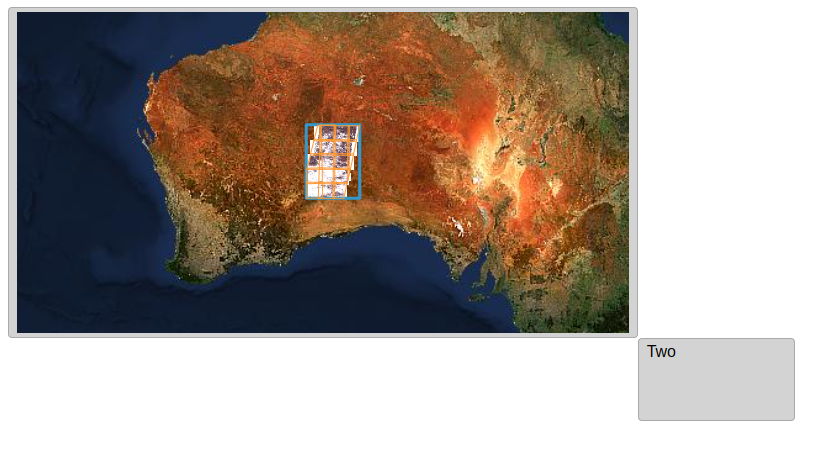
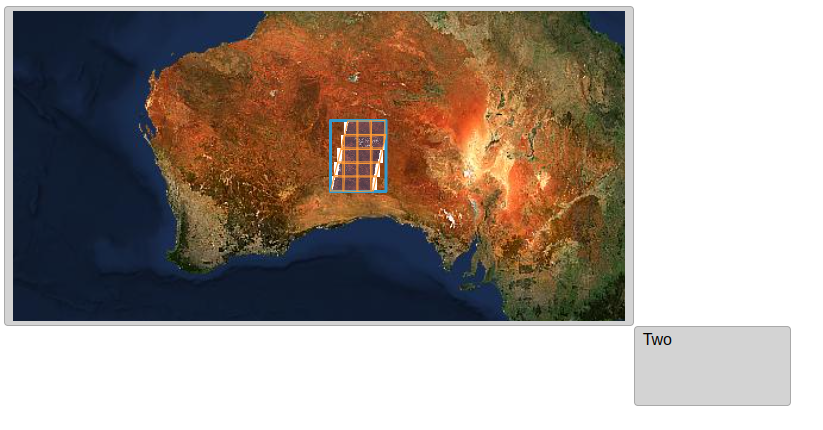
fix: STAC collection screenshot, added date, closes #6

diff --git a/03 eox-map advanced/solution/main.js b/03 eox-map advanced/solution/main.js
@@ -10,7 +10,7 @@ document.querySelector("eox-map").config = {
       properties: {
         id: "stacLayer",
       },
-      url: "https://tamn.snapplanet.io/search?bbox=125.727770,-29.514858,133.412707,-23.673395&collections=S2",
+      url: "https://tamn.snapplanet.io/search?bbox=125.727770,-29.514858,133.412707,-23.673395&collections=S2&datetime=2024-06-18T00:00:00Z",
       displayPreview: true,
     },
     {

diff --git a/03 eox-map advanced/README.md b/03 eox-map advanced/README.md
@@ -41,7 +41,7 @@ This custom layer creates a layer (group) from e.g. a STAC collection. Powered b
   properties: {
     id: "stacLayer",
   },
-  url: "https://tamn.snapplanet.io/search?bbox=125.727770,-29.514858,133.412707,-23.673395&collections=S2",
+  url: "https://tamn.snapplanet.io/search?bbox=125.727770,-29.514858,133.412707,-23.673395&collections=S2&datetime=2024-06-18T00:00:00Z",
   displayPreview: true,
 },
 ```
